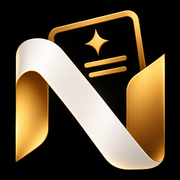
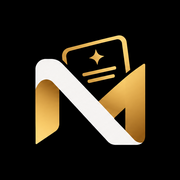
ui: rebrand the product from nickevents to malaikaevents

diff --git a/frontend/src/locales/fr.ts b/frontend/src/locales/fr.ts
@@ -5,7 +5,7 @@
  * localization without touching component markup.
  */
 export const fr = {
-  appName: 'NickEvents',
+  appName: 'MalaikaEvents',
   common: {
     loading: 'Chargement…',
     retry: 'Réessayer',
@@ -46,7 +46,7 @@ export const fr = {
     submitting: 'Connexion en cours…',
     heroTitle: 'Des invitations élégantes, pour des moments inoubliables.',
     heroText:
-      "NickEvents vous accompagne de la création de l'invitation jusqu'à l'accueil de vos invités.",
+      "MalaikaEvents vous accompagne de la création de l'invitation jusqu'à l'accueil de vos invités.",
     heroPoint1: 'Modèles raffinés pour chaque occasion',
     heroPoint2: 'Liens uniques et vérification par QR code',
     heroPoint3: 'Préférences et réponses des invités en un seul endroit',
@@ -411,7 +411,7 @@ export const fr = {
     hero: {
       eyebrow: 'Plateforme d\u2019invitations · République démocratique du Congo',
       title: 'Des invitations dignes de vos plus beaux moments.',
-      text: "NickEvents réunit des modèles d'exception, un partage digital fluide et une vérification par QR code — de la première annonce au jour J.",
+      text: "MalaikaEvents réunit des modèles d'exception, un partage digital fluide et une vérification par QR code — de la première annonce au jour J.",
       primaryCta: 'Se connecter',
       signupCta: 'Créer un compte',
       secondaryCta: 'Découvrir les modèles',
@@ -514,12 +514,12 @@ export const fr = {
     cgu: {
       title: 'Conditions générales d’utilisation',
       intro:
-        'Les présentes conditions générales d’utilisation (ci-après « CGU ») définissent les règles d’utilisation du service NickEvents, accessible sur nickevents.com. En créant un compte ou en utilisant le service, vous acceptez sans réserve les présentes CGU.',
+        'Les présentes conditions générales d’utilisation (ci-après « CGU ») définissent les règles d’utilisation du service MalaikaEvents, accessible sur nickevents.com. En créant un compte ou en utilisant le service, vous acceptez sans réserve les présentes CGU.',
       sections: [
         {
           title: 'Éditeur du service',
           paragraphs: [
-            'Le service NickEvents (ci-après « le service ») est édité par NickEvents, marque du service (ci-après « l’éditeur » ou « nous »).',
+            'Le service MalaikaEvents (ci-après « le service ») est édité par MalaikaEvents, marque du service (ci-après « l’éditeur » ou « nous »).',
             'Pour toute question sur le service ou sur les présentes CGU : support@nickevents.com.',
           ],
           list: [],
@@ -528,7 +528,7 @@ export const fr = {
         {
           title: 'Objet du service',
           paragraphs: [
-            'NickEvents est un service de création d’invitations numériques. Il permet de concevoir des invitations à partir de modèles, de générer des liens nominatifs accompagnés d’un QR code de vérification, de les partager avec vos invités et de recueillir leurs réponses.',
+            'MalaikaEvents est un service de création d’invitations numériques. Il permet de concevoir des invitations à partir de modèles, de générer des liens nominatifs accompagnés d’un QR code de vérification, de les partager avec vos invités et de recueillir leurs réponses.',
             'Chaque invitation possède une date d’expiration et peut être révoquée à tout moment par l’organisateur. Les invités consultent leur invitation et soumettent leurs réponses depuis un navigateur, sans installation ni création de compte.',
           ],
           list: [],
@@ -560,7 +560,7 @@ export const fr = {
         {
           title: 'Données personnelles de vos invités',
           paragraphs: [
-            'Dans le cadre de l’organisation de vos événements, vous déterminez les finalités et les moyens du traitement des données de vos invités (civilité, nom, réponses) : vous en êtes le responsable de traitement. NickEvents agit alors comme sous-traitant, à votre seule instruction.',
+            'Dans le cadre de l’organisation de vos événements, vous déterminez les finalités et les moyens du traitement des données de vos invités (civilité, nom, réponses) : vous en êtes le responsable de traitement. MalaikaEvents agit alors comme sous-traitant, à votre seule instruction.',
             'Vous vous engagez à informer vos invités de l’utilisation de leurs données et à ne collecter que les informations nécessaires à votre événement. La collecte de données sensibles (informations de santé ou d’appartenance religieuse, qui peuvent résulter de certaines préférences alimentaires) est déconseillée et reste de votre seule responsabilité.',
             'Le traitement de vos propres données de compte est décrit dans notre politique de confidentialité.',
           ],
@@ -617,13 +617,13 @@ export const fr = {
     privacy: {
       title: 'Politique de confidentialité',
       intro:
-        'Cette politique de confidentialité décrit les données personnelles traitées par le service NickEvents, les finalités et les bases juridiques de ces traitements, leurs durées de conservation et la manière d’exercer vos droits. Elle est établie conformément au Règlement (UE) 2016/679 (RGPD) et, pour la République Démocratique du Congo, à la loi n° 20/017 du 29 décembre 2020 portant Code du numérique.',
+        'Cette politique de confidentialité décrit les données personnelles traitées par le service MalaikaEvents, les finalités et les bases juridiques de ces traitements, leurs durées de conservation et la manière d’exercer vos droits. Elle est établie conformément au Règlement (UE) 2016/679 (RGPD) et, pour la République Démocratique du Congo, à la loi n° 20/017 du 29 décembre 2020 portant Code du numérique.',
       sections: [
         {
           title: 'Responsable du traitement',
           paragraphs: [
-            'Pour les données de votre compte organisateur, le responsable du traitement est NickEvents, marque du service, éditeur de nickevents.com. Contact : support@nickevents.com.',
-            'Pour les données de vos invités (civilité, nom, réponses) recueillies dans le cadre de vos événements, le responsable du traitement est l’organisateur de l’événement ; NickEvents agit comme sous-traitant.',
+            'Pour les données de votre compte organisateur, le responsable du traitement est MalaikaEvents, marque du service, éditeur de nickevents.com. Contact : support@nickevents.com.',
+            'Pour les données de vos invités (civilité, nom, réponses) recueillies dans le cadre de vos événements, le responsable du traitement est l’organisateur de l’événement ; MalaikaEvents agit comme sous-traitant.',
           ],
           list: [],
           table: [],
@@ -697,7 +697,7 @@ export const fr = {
         {
           title: 'Traitements non réalisés',
           paragraphs: [
-            'Aucun traitement n’est réalisé à des fins de prospection commerciale, de publicité ou de profilage. Aucune donnée n’est vendue ni louée à des tiers. NickEvents n’envoie pas d’e-mails de sollicitation.',
+            'Aucun traitement n’est réalisé à des fins de prospection commerciale, de publicité ou de profilage. Aucune donnée n’est vendue ni louée à des tiers. MalaikaEvents n’envoie pas d’e-mails de sollicitation.',
           ],
           list: [],
           table: [],
@@ -753,7 +753,7 @@ export const fr = {
         {
           title: 'Cookies',
           paragraphs: [
-            'NickEvents n’utilise que des cookies strictement nécessaires au fonctionnement du service (session de connexion et protection CSRF). Aucune mesure d’audience, aucune publicité et aucun traceur tiers ne sont déposés. Le détail figure dans notre page Paramètres de cookies.',
+            'MalaikaEvents n’utilise que des cookies strictement nécessaires au fonctionnement du service (session de connexion et protection CSRF). Aucune mesure d’audience, aucune publicité et aucun traceur tiers ne sont déposés. Le détail figure dans notre page Paramètres de cookies.',
           ],
           list: [],
           table: [],
@@ -771,7 +771,7 @@ export const fr = {
     cookies: {
       title: 'Paramètres de cookies',
       intro:
-        'Cette page décrit les cookies utilisés par NickEvents et les moyens de les contrôler. En résumé : le service ne dépose que des cookies strictement nécessaires à son fonctionnement — aucun traceur publicitaire ou de mesure d’audience.',
+        'Cette page décrit les cookies utilisés par MalaikaEvents et les moyens de les contrôler. En résumé : le service ne dépose que des cookies strictement nécessaires à son fonctionnement — aucun traceur publicitaire ou de mesure d’audience.',
       sections: [
         {
           title: 'Qu’est-ce qu’un cookie ?',
@@ -782,7 +782,7 @@ export const fr = {
           table: [],
         },
         {
-          title: 'Cookies déposés par NickEvents',
+          title: 'Cookies déposés par MalaikaEvents',
           paragraphs: ['Le service utilise uniquement les cookies suivants :'],
           list: [],
           table: [

diff --git a/frontend/src/design-system/Logo.tsx b/frontend/src/design-system/Logo.tsx
@@ -1,24 +1,26 @@
 /**
- * NickEvents brand marks — cropped views of the official logo artwork
- * (`frontend/public/logo/`, gold & ivory):
+ * MalaikaEvents brand marks — derived from the official logo artwork
+ * (`frontend/public/logo/logo-malaika-events.png`, gold & ivory on black):
  *
- * - `nickevents-emblem.webp` — the gold "N" emblem WITHOUT text (ribbon
- *   effect, transparent), the compact brand mark. The artwork has a
- *   transparent background, so on light surfaces it rides a dark plate
- *   (default); pass `plate={false}` to drop it on dark surfaces.
- * - `nickevents-logo.webp` — the full lockup (emblem + wordmark + tagline),
+ * - `malaika-emblem.webp` — the gold monogram (invitation card + envelope
+ *   ribbon) WITHOUT text, tightly cropped with the black backdrop keyed to
+ *   transparency (enclosed black areas stay black), so on light surfaces it
+ *   rides a dark plate (default); pass `plate={false}` on dark surfaces.
+ * - `malaika-lockup.webp` — the full lockup (monogram + wordmark + tagline),
  *   displayed plateless on the dark band of the home page's final CTA.
  *
- * The SVG `viewBox` windows the source bitmap (1536×1024) to the exact
- * region needed, so the real logo is used at every size without redrawing
- * it or shipping extra binary assets.
+ * Each SVG maps its `viewBox` to the asset's own pixel size, so the real
+ * logo is used at every size without redrawing it.
  */
 
-const EMBLEM_SRC = '/logo/nickevents-emblem.webp'
-const LOGO_SRC = '/logo/nickevents-logo.webp'
+const EMBLEM_SRC = '/logo/malaika-emblem.webp'
+const LOCKUP_SRC = '/logo/malaika-lockup.webp'
+const EMBLEM_SIZE = 430
+const LOCKUP_WIDTH = 1174
+const LOCKUP_HEIGHT = 649
 
 /**
- * The gold "N" emblem (no text) — the compact brand mark. The artwork is
+ * The gold monogram (no text) — the compact brand mark. The artwork is
  * transparent: on light surfaces it rides a dark plate (`plate`, default);
  * pass `plate={false}` on dark surfaces.
  */
@@ -33,16 +35,21 @@ export function LogoMark({
     <span
       className={`flex shrink-0 items-center justify-center overflow-hidden ${plate ? 'bg-black' : ''} ${className}`}
     >
-      <svg viewBox="283 23 970 970" className="h-full w-full" aria-hidden="true" focusable="false">
-        <image href={EMBLEM_SRC} width="1536" height="1024" />
+      <svg
+        viewBox={`0 0 ${EMBLEM_SIZE} ${EMBLEM_SIZE}`}
+        className="h-full w-full"
+        aria-hidden="true"
+        focusable="false"
+      >
+        <image href={EMBLEM_SRC} width={EMBLEM_SIZE} height={EMBLEM_SIZE} />
       </svg>
     </span>
   )
 }
 
 /**
- * Compact lockup: monogram + "NickEvents" wordmark in the logo's own
- * two-tone ("Nick" ink/ivory, "Events" gold).
+ * Compact lockup: monogram + "MalaikaEvents" wordmark in the logo's own
+ * two-tone ("Malaika" ink/ivory, "Events" gold).
  */
 export function BrandLockup({
   dark = false,
@@ -56,7 +63,7 @@ export function BrandLockup({
       <LogoMark />
       {compact ? null : (
         <span className="font-display text-lg font-semibold tracking-tight">
-          <span className={dark ? 'text-white' : 'text-ink'}>Nick</span>
+          <span className={dark ? 'text-white' : 'text-ink'}>Malaika</span>
           <span className={dark ? 'text-gold' : 'text-brand'}>Events</span>
         </span>
       )}
@@ -64,16 +71,16 @@ export function BrandLockup({
   )
 }
 
-/** The full logo lockup (emblem + wordmark + tagline) — transparent, no plate. */
+/** The full logo lockup (monogram + wordmark + tagline) — transparent, no plate. */
 export function LogoArtwork({ className = 'w-64' }: { className?: string }) {
   return (
     <svg
-      viewBox="310 210 920 630"
+      viewBox={`0 0 ${LOCKUP_WIDTH} ${LOCKUP_HEIGHT}`}
       className={`h-auto ${className}`}
       role="img"
-      aria-label="NickEvents"
+      aria-label="MalaikaEvents"
     >
-      <image href={LOGO_SRC} width="1536" height="1024" />
+      <image href={LOCKUP_SRC} width={LOCKUP_WIDTH} height={LOCKUP_HEIGHT} />
     </svg>
   )
 }

diff --git a/frontend/index.html b/frontend/index.html
@@ -8,26 +8,26 @@
     <meta name="viewport" content="width=device-width, initial-scale=1.0" />
     <meta
       name="description"
-      content="NickEvents — créez et gérez des invitations d'événements élégantes : mariages, anniversaires, remises de diplômes."
+      content="MalaikaEvents — créez et gérez des invitations d'événements élégantes : mariages, anniversaires, remises de diplômes."
     />
     <meta name="theme-color" content="#8f6518" />
     <link rel="canonical" href="https://www.nickevents.com/" />
     <meta property="og:type" content="website" />
     <meta property="og:url" content="https://www.nickevents.com/" />
-    <meta property="og:site_name" content="NickEvents" />
+    <meta property="og:site_name" content="MalaikaEvents" />
     <meta property="og:locale" content="fr_CD" />
-    <meta property="og:title" content="NickEvents — Invitations d'événements élégantes" />
+    <meta property="og:title" content="MalaikaEvents — Invitations d'événements élégantes" />
     <meta
       property="og:description"
       content="Modèles d'invitation raffinés, QR codes de vérification, liens nominatifs et suivi des réponses — pour mariages, anniversaires, remises de diplômes et réceptions."
     />
     <meta name="twitter:card" content="summary" />
-    <meta name="twitter:title" content="NickEvents — Invitations d'événements élégantes" />
+    <meta name="twitter:title" content="MalaikaEvents — Invitations d'événements élégantes" />
     <meta
       name="twitter:description"
       content="Modèles d'invitation raffinés, QR codes de vérification et suivi des réponses pour tous vos événements."
     />
-    <title>NickEvents — Invitations d'événements</title>
+    <title>MalaikaEvents — Invitations d'événements</title>
   </head>
   <body>
     <div id="root"></div>

diff --git a/frontend/src/pages/PublicInvitationPage.tsx b/frontend/src/pages/PublicInvitationPage.tsx
@@ -114,7 +114,7 @@ function LifecycleStateScreen({ lifecycle }: { lifecycle: 'expired' | 'revoked' 
       <div className="w-full max-w-md rounded-[1.6rem] border border-line bg-white/85 p-8 text-center shadow-[0_24px_70px_rgba(25,32,28,0.12)] ring-1 ring-white/70 backdrop-blur-sm">
         <p className="flex items-center justify-center gap-2.5 text-xs font-medium uppercase tracking-[0.35em] text-ink-faint">
           <LogoMark className="h-7 w-7 rounded-md" />
-          NickEvents
+          MalaikaEvents
         </p>
         <span
           className={`mt-6 inline-flex items-center rounded-full px-3 py-1 text-xs font-semibold ${expired ? 'bg-warning-soft text-warning' : 'bg-danger-soft text-danger'}`}
@@ -285,7 +285,7 @@ export function PublicInvitationPage() {
           <div>
             <p className="flex items-center gap-2.5 text-xs font-medium uppercase tracking-[0.35em] text-ink-faint">
               <LogoMark className="h-7 w-7 rounded-md" />
-              NickEvents
+              MalaikaEvents
             </p>
             <h1 className="mt-2 text-2xl font-semibold text-ink md:text-3xl">Invitation</h1>
           </div>

diff --git a/frontend/src/index.css b/frontend/src/index.css
@@ -1,8 +1,8 @@
 @import 'tailwindcss';
 
 /*
- * NickEvents design tokens — "paper & ink" editorial system with the
- * signature gold of the NickEvents logo (gold & ivory on black). Tailwind
+ * MalaikaEvents design tokens — "paper & ink" editorial system with the
+ * signature gold of the MalaikaEvents logo (gold & ivory on black). Tailwind
  * v4 theme namespace: each token below generates utilities
  * (bg-paper, text-ink, font-display, rounded-md, ...).
  */
@@ -22,7 +22,7 @@
   --color-line: #e8e5df;
   --color-line-strong: #d8d4cc;
 
-  /* Brand — signature gold from the NickEvents logo. The deep gold keeps
+  /* Brand — signature gold from the MalaikaEvents logo. The deep gold keeps
      white-on-gold buttons accessible and gold text readable on ivory. */
   --color-brand: #8f6518;
   --color-brand-strong: #6b4711;

diff --git a/frontend/src/templates/LigneModerne.tsx b/frontend/src/templates/LigneModerne.tsx
@@ -32,7 +32,7 @@ export function LigneModerne({ draft }: TemplateProps) {
             className="text-[1.02em] font-semibold uppercase"
             style={{ letterSpacing: '0.42em', color: ACCENT }}
           >
-            NickEvents
+            MalaikaEvents
           </p>
           <p className="text-[1.02em] uppercase" style={{ letterSpacing: '0.28em', opacity: 0.7 }}>
             Invitation

diff --git a/frontend/src/lib/exportInvitationPdf.ts b/frontend/src/lib/exportInvitationPdf.ts
@@ -744,7 +744,7 @@ export async function exportInvitationPdf(content: InvitationPdfContent): Promis
     doc.setProperties({
       title: content.title,
       subject: 'Invitation',
-      creator: 'NickEvents',
+      creator: 'MalaikaEvents',
     })
     pages.forEach((page, index) => {
       const height = pageHeightMm(page)

diff --git a/frontend/src/lib/exportInvitationPdf.test.ts b/frontend/src/lib/exportInvitationPdf.test.ts
@@ -165,7 +165,7 @@ describe('exportInvitationPdf', () => {
     expect(doc.props).toEqual({
       title: 'Mariage de Grâce et Éric',
       subject: 'Invitation',
-      creator: 'NickEvents',
+      creator: 'MalaikaEvents',
     })
 
     expect(QRCode.toDataURL).toHaveBeenCalledWith('https://nickevents.cd/i/tok-abc123', {

diff --git a/backend/manage.py b/backend/manage.py
@@ -1,5 +1,5 @@
 #!/usr/bin/env python
-"""Django management entry point (NickEvents backend)."""
+"""Django management entry point (MalaikaEvents backend)."""
 import os
 import sys
 
